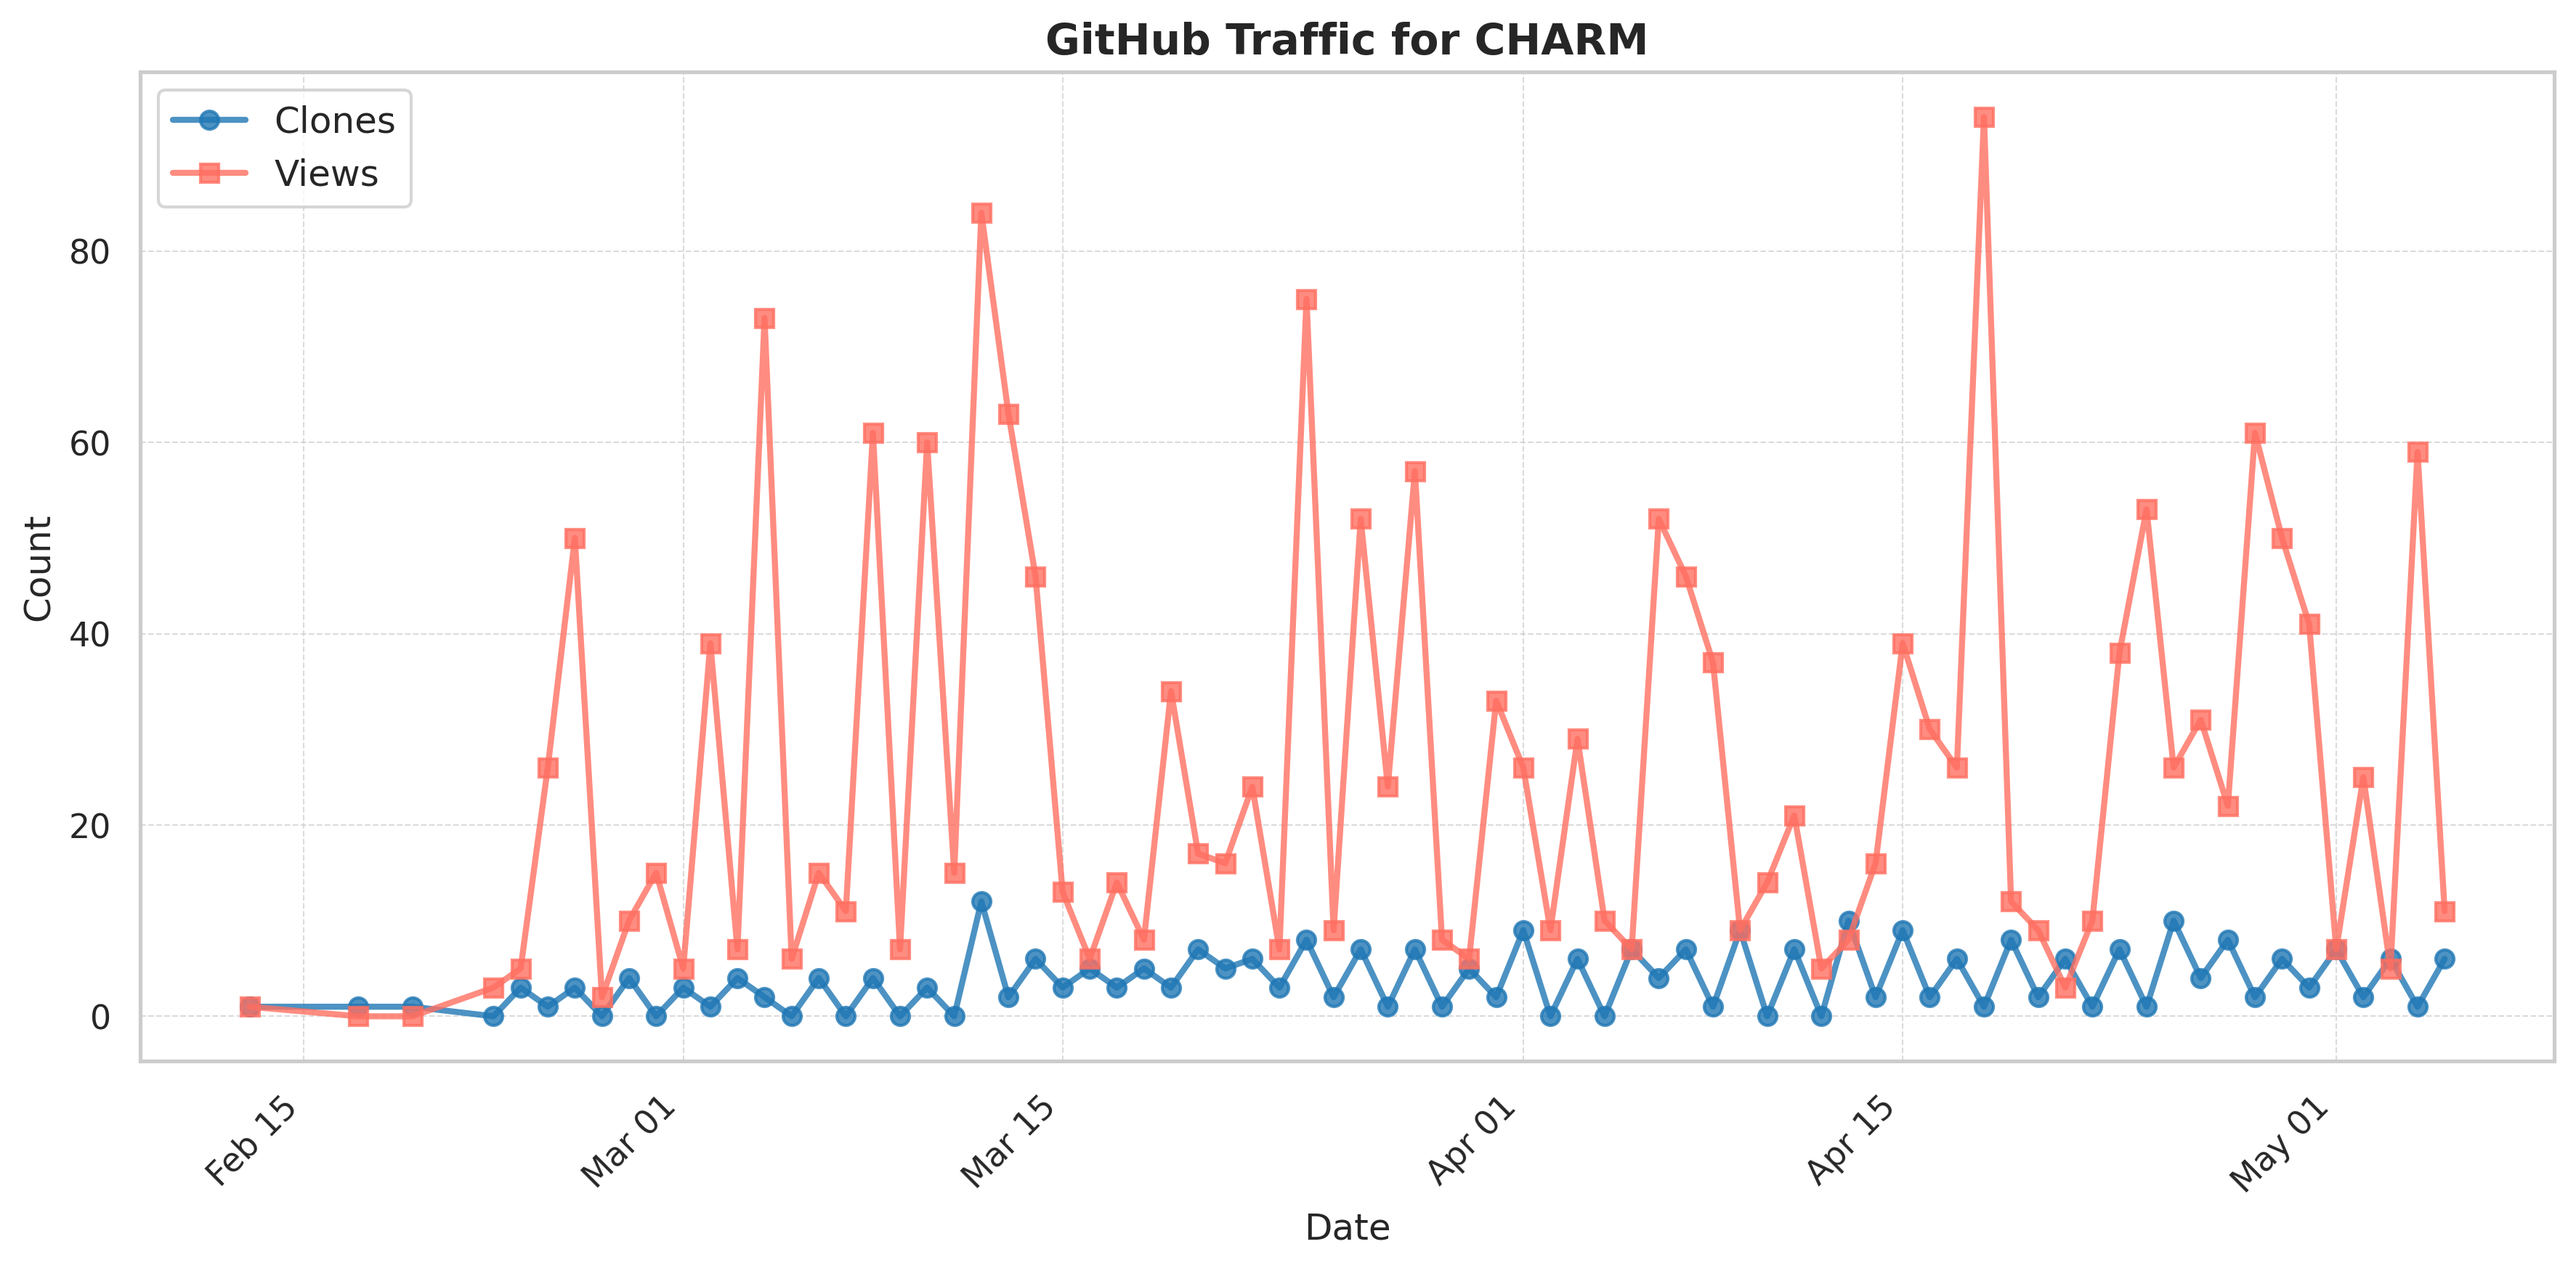
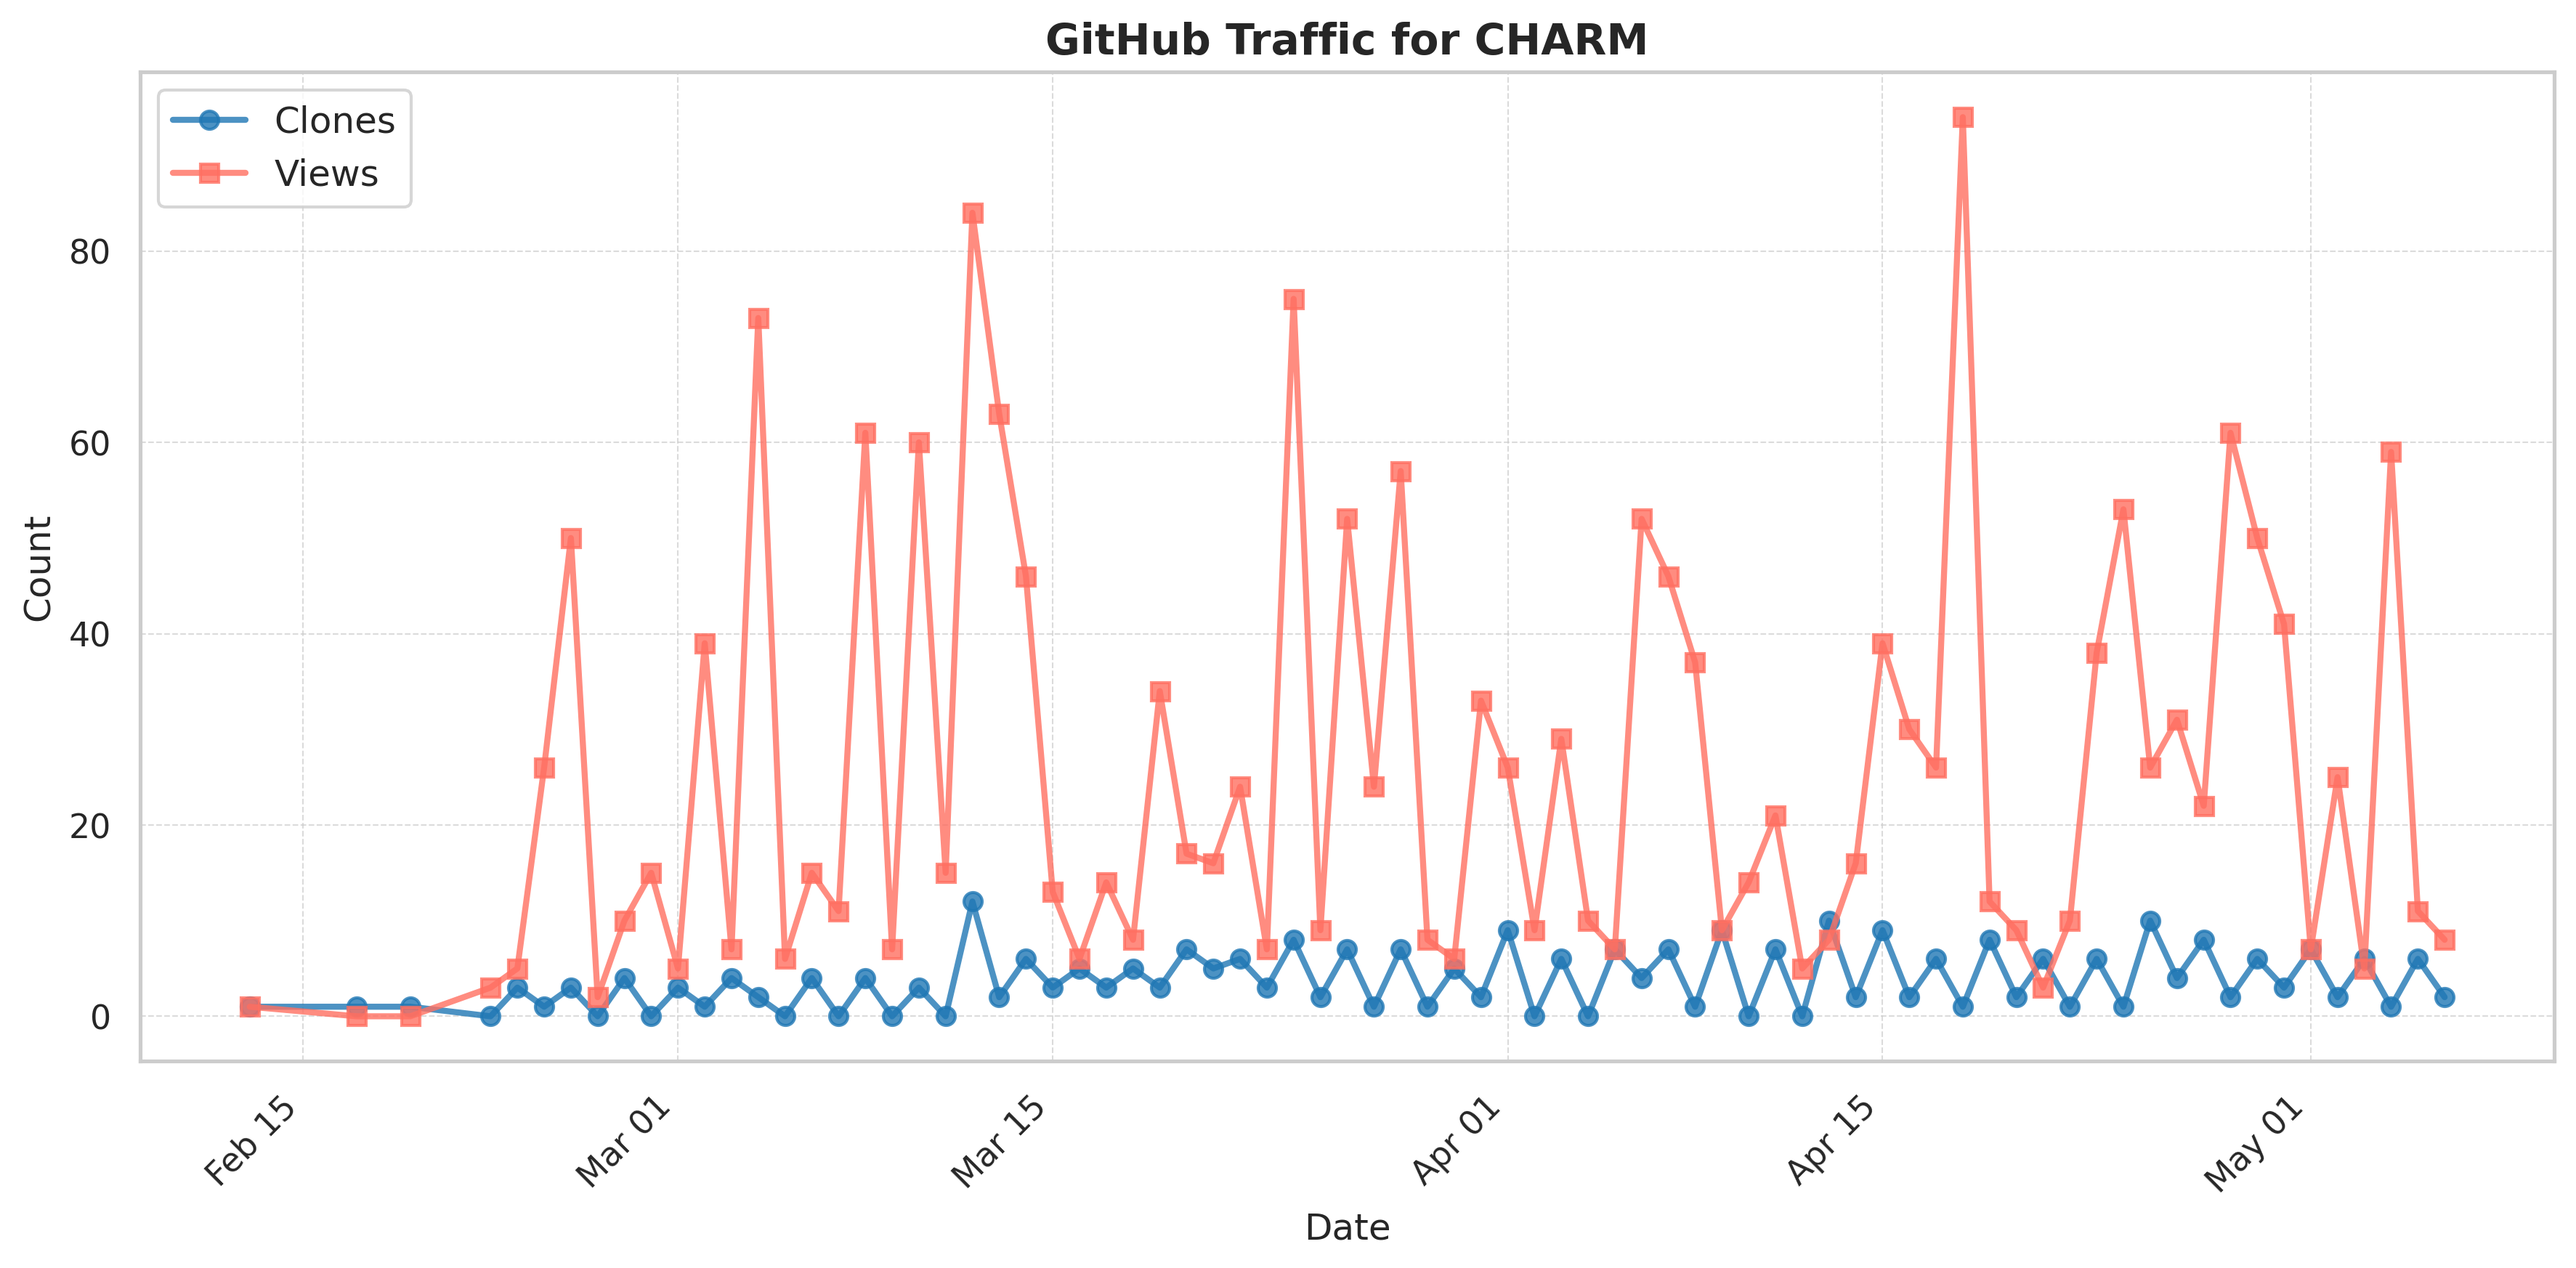
Auto-generated traffic_plot.png and plot_data.csv

diff --git a/README.md b/README.md
@@ -13,8 +13,8 @@ AMD Collaborators: Stephen Neuendorffer, Jack Lo, and Kristof Denolf
 
 ## 🚀 Thank You for Using CHARM! ! !
 ### Your support and growing engagement inspire us to continually improve and enhance the project.
-+ Total Views since 02/13/2025: <!--VIEWS-->1948<!--/VIEWS-->
-+ Total Downloads since 02/13/2025: <!--CLONES-->288<!--/CLONES-->
++ Total Views since 02/13/2025: <!--VIEWS-->1956<!--/VIEWS-->
++ Total Downloads since 02/13/2025: <!--CLONES-->289<!--/CLONES-->
 <img src="./plot/CHARM_traffic_plot.png" width="600" />
 
 
